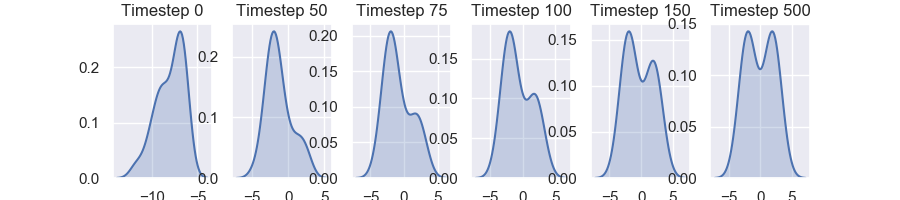
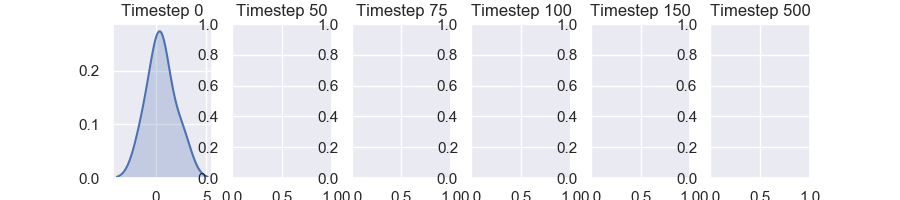
Fix GMM

diff --git a/svgd-gmm.py b/svgd-gmm.py
@@ -20,13 +20,14 @@ def logp(x):
 def kernel(x, y):
     return torch.exp(-1.*torch.dist(x, y, p=2)**2)
 
-n = 50
+n = 5
 d = 1
-num_iter = 150
+num_iter = 5
 step_size = 1e-0;
 
 sampler = dsvgd.sampler.Sampler(d, logp, kernel)
 df = sampler.sample(n, num_iter, step_size)
+df['value'] = df['value'].map(lambda x: x[0])
 
 sns.set()
 g = sns.catplot(

diff --git a/README.md b/README.md
@@ -1,8 +1,14 @@
-Experiments in distributed Stein's Variational Gradient Descent
-===============================================================
+# Experiments in distributed Stein's Variational Gradient Descent
 
 This repo contains code which performs some experiments on SVGD
 (see https://arxiv.org/abs/1608.04471).
 
-`benchmarks.mat` downloaded from Dr Gavin Cawley's web page (http://theoval.cmp.uea.ac.uk/matlab/default.html),
-distributed under GPL v3.
+
+## Project Organization
+ - `dsvgd/` : code for the sampler
+ - `experiments/` : experiments which use the sampler
+ - `data/` : datasets used in experiments
+ - `figures/` : figures produced by experiments
+
+## References
+ - `benchmarks.mat` downloaded from Dr Gavin Cawley's web page (http://theoval.cmp.uea.ac.uk/matlab/default.html), distributed under GPL v3.
